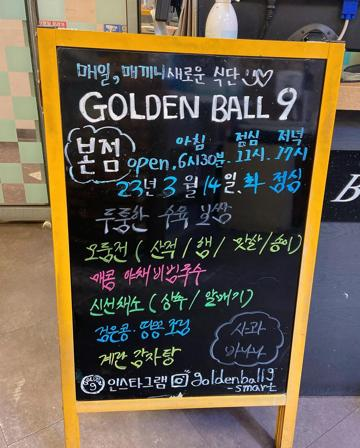
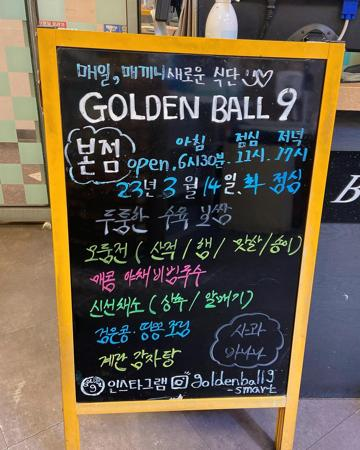
auto push

diff --git a/css/styles.css b/css/styles.css
@@ -151,7 +151,7 @@ section {
 /* HEADER */
 
 #header {
-	background: url(../images/mainview.jpg) no-repeat center center;
+	background: url(../images/mainview_half.jpg) no-repeat center center;
 	background-size: cover;
 	height: 100vh;
 	padding: 0px;

diff --git a/images/imgsmaller.py b/images/imgsmaller.py
@@ -1,12 +1,12 @@
 from PIL import Image
 
 # open the image
-image = Image.open("smart.jpg")
+image = Image.open("mainview.jpg")
 
 # resize the image to 50% of its original size
 width, height = image.size
-new_size = (width // 4, height // 4)
+new_size = (width // 2, height // 2)
 resized_image = image.resize(new_size)
 
 # save the resized image to a file
-resized_image.save("smart.jpg")
+resized_image.save("mainview_half.jpg")
